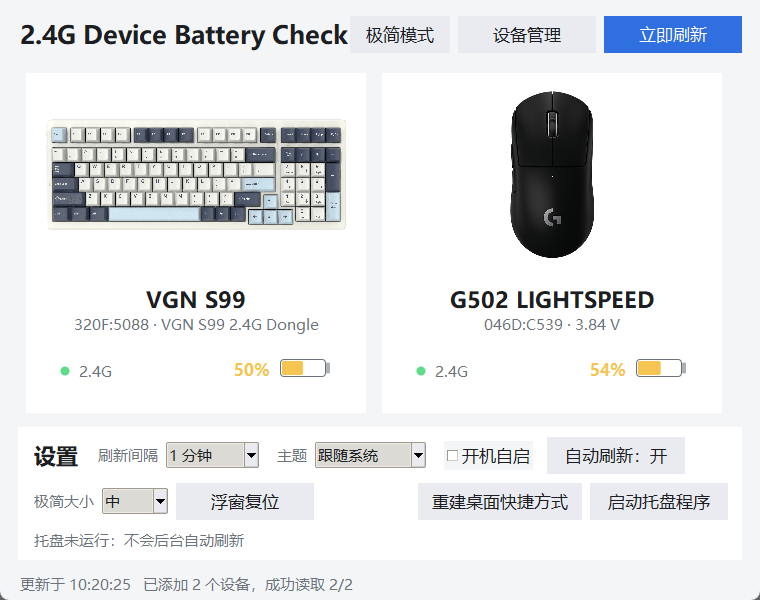
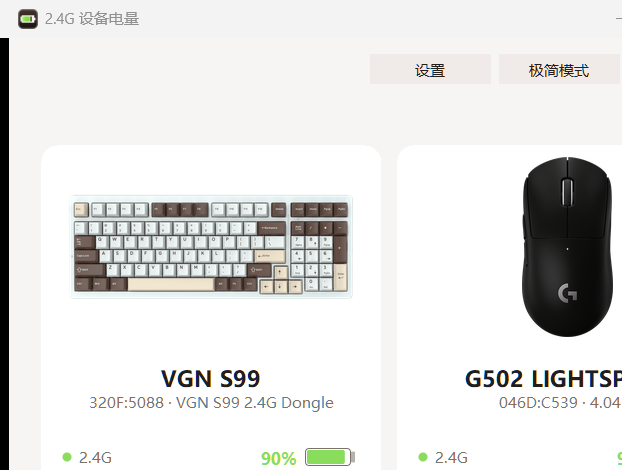
docs: 补 v1.3.0 功能说明(低电量提醒/电量趋势),更新主界面截图

diff --git a/README.md b/README.md
@@ -89,6 +89,13 @@ python my_battery.py
 - 只扫描不添加：`python my_battery.py --scan`；扫描并全部加入：`python my_battery.py --add`
 - 想摸新设备的协议：`python app.py` —— 完整调试版，可枚举接口、转储 Feature Report、探测 Report ID、手动标定
 
+### 低电量提醒 · 电量趋势
+
+- **低电量提醒**：任何设备低于阈值（默认 20%）弹 Windows 系统通知，一次低电只提醒一次
+  （充电或回升后自动复位）；设置 → 刷新里可调 关 / 10% / 15% / 20% / 30%。
+- **电量趋势**（设置 → 趋势）：多设备电量曲线，24 小时 / 7 天 / 30 天切换，充电时段绿色高亮。
+  数据自动记录在本地 `battery_history.csv`（约 3MB 自动轮转），不联网不上传。
+
 ### 极简模式：两块毛玻璃小浮窗
 
 ![极简模式](assets/screenshot-minimal.png)

diff --git a/注意事项.md b/注意事项.md
@@ -29,6 +29,10 @@
 ## 使用习惯
 
 - 点窗口 ✕ 只是**隐藏到托盘**，程序还在后台刷新；要真正退出用托盘右键 → 退出。
+- **低电量提醒**：设备电量低于 20%（默认）会弹系统通知，一次低电只提醒一次；
+  阈值在 设置 → 刷新 里改，嫌吵可以关。
+- **电量趋势**：设置 → 趋势 看曲线（24 小时 / 7 天 / 30 天），充电时段是绿色；
+  数据自动记在本地 `battery_history.csv`，想清空历史删这个文件就行。
 - 主界面右上角有 **「设置」「极简模式」「立即刷新」** 三个按钮（极简模式一键直达，
   再点浮窗任意处即可回到主界面）；所有配置都在
   **「设置」窗口**里，左侧分五类：外观（主题/背景/极简）、设备（扫描/增删）、
